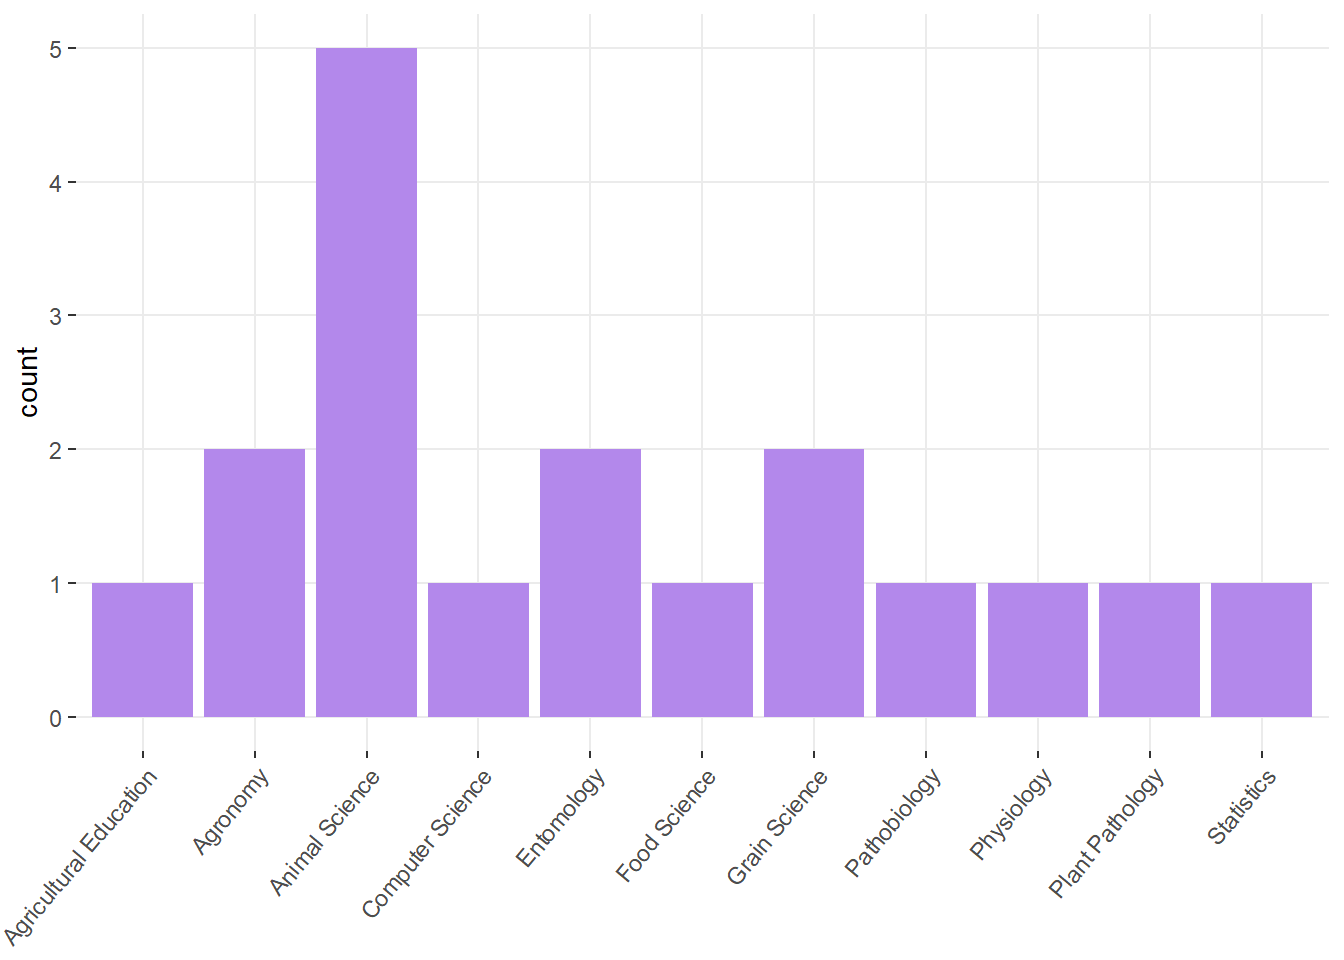
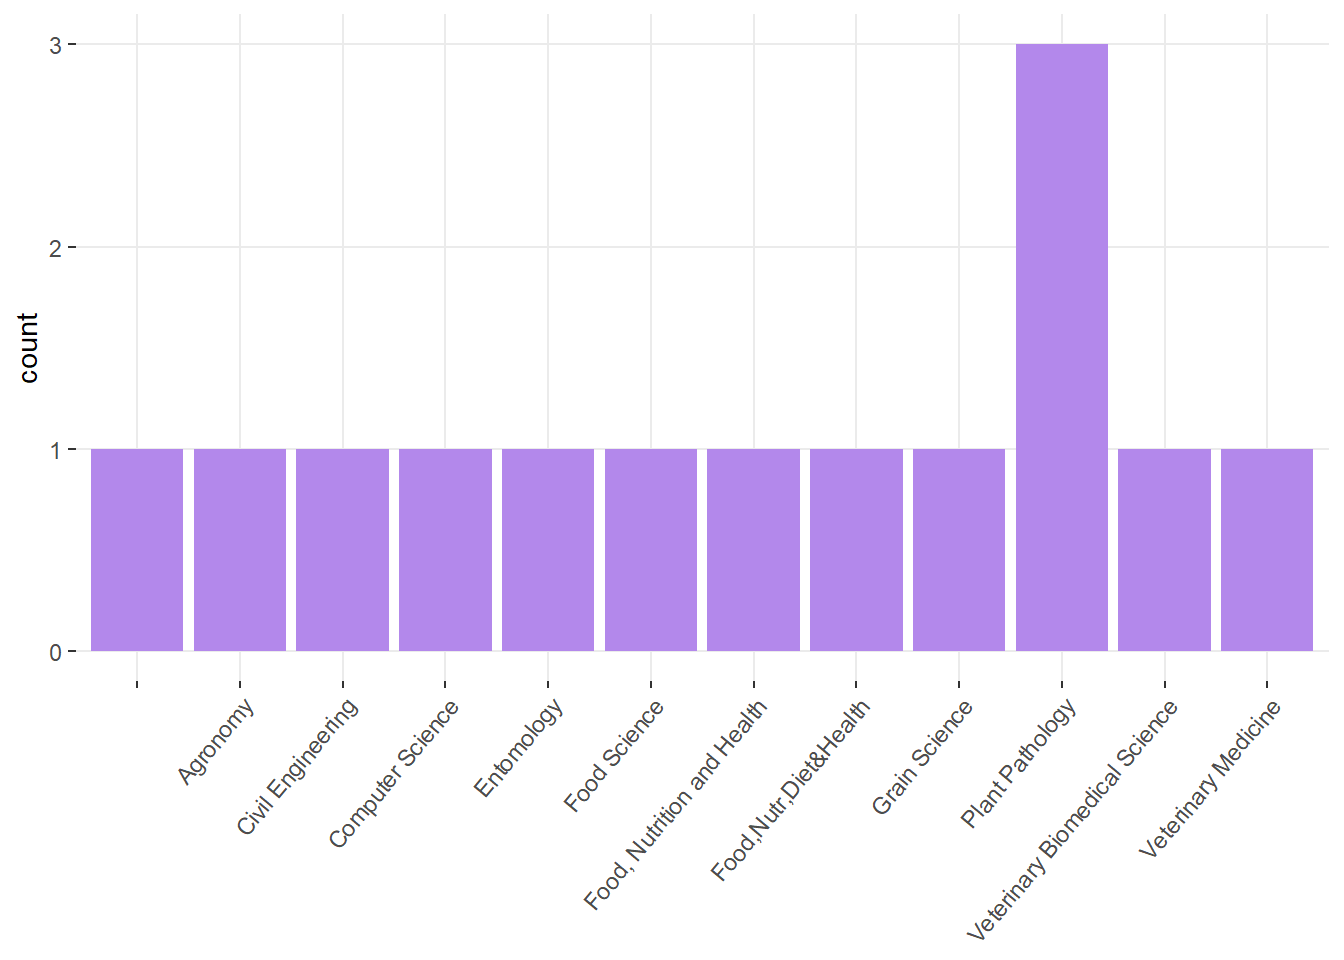
friday 6/5

diff --git a/notes/basic-types-of-designed-experiments-1.html b/notes/basic-types-of-designed-experiments-1.html
@@ -255,7 +255,7 @@ code span.wa { color: #60a0b0; font-weight: bold; font-style: italic; } /* Warni
 <h2><span class="header-section-number">3.2</span> Types of designs<a href="basic-types-of-designed-experiments-1.html#types-of-designs" class="anchor-section" aria-label="Anchor link to header"></a></h2>
 <div id="completely-randomized-design-crd-1" class="section level3 hasAnchor" number="3.2.1">
 <h3><span class="header-section-number">3.2.1</span> Completely randomized design (CRD)<a href="basic-types-of-designed-experiments-1.html#completely-randomized-design-crd-1" class="anchor-section" aria-label="Anchor link to header"></a></h3>
-<div class="figure"><span style="display:block;" id="fig:unnamed-chunk-4"></span>
+<div class="figure"><span style="display:block;" id="fig:unnamed-chunk-16"></span>
 <img src="../figures/designs_crd.PNG" alt="Schematic description of an experiment with a completely randomized design" width="100%" />
 <p class="caption">
 Figure 3.1: Schematic description of an experiment with a completely randomized design
@@ -267,7 +267,7 @@ Figure 3.1: Schematic description of an experiment with a completely randomized 
 <ul>
 <li>Blocks are groups of similar experimental units and are large enough to fit each treatment at least once</li>
 </ul>
-<div class="figure"><span style="display:block;" id="fig:unnamed-chunk-5"></span>
+<div class="figure"><span style="display:block;" id="fig:unnamed-chunk-17"></span>
 <img src="../figures/designs_rcbd.PNG" alt="Schematic description of an experiment with a randomized complete block design" width="100%" />
 <p class="caption">
 Figure 3.2: Schematic description of an experiment with a randomized complete block design
@@ -279,13 +279,13 @@ Figure 3.2: Schematic description of an experiment with a randomized complete bl
 <h2><span class="header-section-number">3.3</span> Building an ANOVA skeleton using design (aka topographical) and treatment elements<a href="basic-types-of-designed-experiments-1.html#building-an-anova-skeleton-using-design-aka-topographical-and-treatment-elements" class="anchor-section" aria-label="Anchor link to header"></a></h2>
 <table class="kable_wrapper">
 <caption>
-<span id="tab:unnamed-chunk-6">Table 3.1: </span>Constructing the ANOVA skeleton
+<span id="tab:unnamed-chunk-18">Table 3.1: </span>Constructing the ANOVA skeleton
 </caption>
 <tbody>
 <tr>
 <td>
 <table>
-<caption><span id="tab:unnamed-chunk-6">Table 3.1: </span>Experiment or Topographical</caption>
+<caption><span id="tab:unnamed-chunk-18">Table 3.1: </span>Experiment or Topographical</caption>
 <thead>
 <tr class="header">
 <th align="left">Source</th>
@@ -314,7 +314,7 @@ Figure 3.2: Schematic description of an experiment with a randomized complete bl
 </td>
 <td>
 <table>
-<caption><span id="tab:unnamed-chunk-6">Table 3.1: </span>Treatment</caption>
+<caption><span id="tab:unnamed-chunk-18">Table 3.1: </span>Treatment</caption>
 <thead>
 <tr class="header">
 <th align="left">Source</th>
@@ -343,7 +343,7 @@ Figure 3.2: Schematic description of an experiment with a randomized complete bl
 </td>
 <td>
 <table>
-<caption><span id="tab:unnamed-chunk-6">Table 3.1: </span>Combined Table</caption>
+<caption><span id="tab:unnamed-chunk-18">Table 3.1: </span>Combined Table</caption>
 <thead>
 <tr class="header">
 <th align="left">Source</th>

diff --git a/notes/basic-types-of-designed-experiments.html b/notes/basic-types-of-designed-experiments.html
@@ -271,7 +271,7 @@ Figure 2.1: Fisher’s diagram ‘The Principles of Field Experimentation’. Fi
 <p>There are several ways to carry out an experiment.
 The way we carry out an experiment is important because it will establish the blueprint for how the data are generated.
 This means that the design will determine <strong>what observations are similar to each other</strong>.</p>
-<div class="figure"><span style="display:block;" id="fig:unnamed-chunk-2"></span>
+<div class="figure"><span style="display:block;" id="fig:unnamed-chunk-14"></span>
 <img src="../figures/blueprint.jpg" alt="A blueprint is to a building what the experimental design is to the data. [Source](https://www.roomsketcher.com/blog/how-to-draw-a-blueprint/)" width="70%" />
 <p class="caption">
 Figure 2.2: A blueprint is to a building what the experimental design is to the data. <a href="https://www.roomsketcher.com/blog/how-to-draw-a-blueprint/">Source</a>
@@ -361,7 +361,7 @@ Figure 2.5: Schematic description of an experiment with an incomplete block desi
 <span id="cb1-2"><a href="basic-types-of-designed-experiments.html#cb1-2" tabindex="-1"></a>           <span class="at">df =</span> <span class="fu">c</span>(<span class="st">&quot;b-1 = 3-1 = 2&quot;</span>, <span class="st">&quot;t-1 = 6-1 = 5&quot;</span>, <span class="st">&quot;(u-1)*b - (t-1) = (12-1)3 - (5-1) = 28&quot;</span>, <span class="st">&quot;N-1 = 36 - 1 = 35&quot;</span>)) <span class="sc">%&gt;%</span></span>
 <span id="cb1-3"><a href="basic-types-of-designed-experiments.html#cb1-3" tabindex="-1"></a>  knitr<span class="sc">::</span><span class="fu">kable</span>(<span class="at">caption =</span> <span class="st">&quot;ANOVA table for the swine example, where b is the number of blocks, t is the number of treatments, u is the number of experimental units per block, and N is the total number of observations.&quot;</span>)</span></code></pre></div>
 <table>
-<caption><span id="tab:unnamed-chunk-3">Table 2.1: </span>ANOVA table for the swine example, where b is the number of blocks, t is the number of treatments, u is the number of experimental units per block, and N is the total number of observations.</caption>
+<caption><span id="tab:unnamed-chunk-15">Table 2.1: </span>ANOVA table for the swine example, where b is the number of blocks, t is the number of treatments, u is the number of experimental units per block, and N is the total number of observations.</caption>
 <thead>
 <tr class="header">
 <th align="left">Source.of.variation</th>

diff --git a/notes/index.html b/notes/index.html
@@ -248,7 +248,7 @@ code span.wa { color: #60a0b0; font-weight: bold; font-style: italic; } /* Warni
 <li><a href="https://jlacasa.github.io/">About me</a></li>
 <li>About you:</li>
 </ul>
-<p><img src="bookdownproj_files/figure-html/unnamed-chunk-1-1.png" alt="" width="672" /></p>
+<p><img src="bookdownproj_files/figure-html/unnamed-chunk-13-1.png" alt="" width="672" /></p>
 <ul>
 <li><p>In rounds: What’s your major, what do you expect to learn?</p></li>
 <li><p>From 2025 TEVALs: “What advice would you give to future students of this course?”</p>